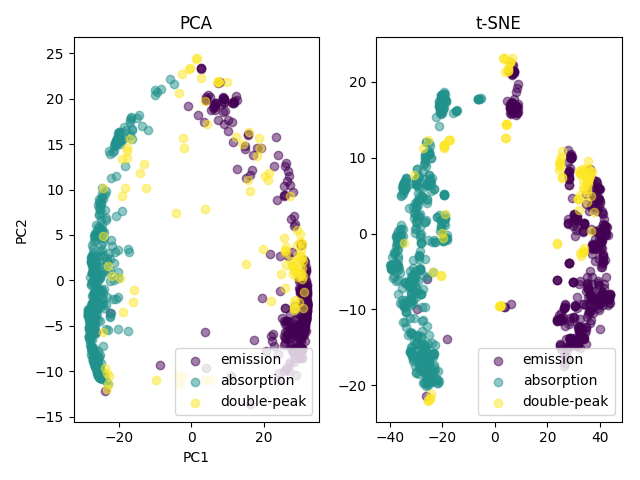
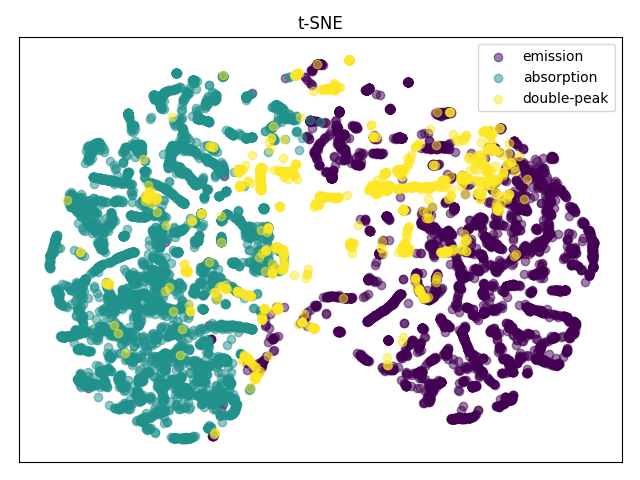
Write about t-SNE

diff --git a/tex/dimensionality.tex b/tex/dimensionality.tex
@@ -1,14 +1,15 @@
 \chap Dimensionality Reduction
 
-After the preprocessing methods mentioned in above sections each spectrum
-is a point in 140-dimensional space.
-To better understant the data \glref{PCA} and \glref{t-SNE} dimensionality
+After the preprocessing methods mentioned in chapter~\ref[preprocessing]
+each spectrum is a point in {\bf 140-dimensional space}.
+To better understand the data \glref{PCA} and \glref{t-SNE} dimensionality
 reduction algorithms are applied to reduce each point to 2-dimensional space
 which can be visualized as scatter plot.
 
 \sec PCA
 
-Principal Component Analysis is statistical technique to tranform a number
+{\bf Principal Component Analysis}
+is statistical technique to tranform a number
 of possibly correlated variables into a smaller number of variables
 called principal components. \cite[pca]
 
@@ -23,17 +24,15 @@ of the plot, emission spectra are on the other side and double-peak spectra
 are spread across the whole plot.
 \endinsert
 
-Left plot in figure~\ref[pca-plot] displays first and second principal
-component of original dataset.
-After further analysis the plot express more the intensities in spectra's
+Left plot in figure~\ref[pca-plot] displays the first and the second principal
+component of dataset which is not standardized.
+After further analysis the plot express more the intensities in spectra
 fluxes than the shape.
-The points far from the dense area in middle left have high intense fluxes.
-But in this work the difference between intesities in fluxes is not interesting.
+The points far from the dense area in middle left have high fluxes.
+But in this work the interesting is shape not the difference between in fluxes.
 
-The other plot in figure~\ref[pca-plot] shows dataset with supressed intensities
-so that the only feature should be the shape of each spectra
-(spectra are classified according to their shapes see chapter~\ref[ondrejov].
-
+The plot on right side in figure~\ref[pca-plot] shows dataset
+with supressed fluxes.
 The scatter plot then expresses the structure of the dataset clearly.
 Absroption spectra are on the left side
 while emission spectra are mostly on the other side.
@@ -41,20 +40,40 @@ Double-peak spectra are spread across the whole plot.
 This may implies that the emission and absorption spectra can be separable
 by linear classifier.
 But the double-peak spectra are mixed up with the other classes so
-hopefully a deep neural network can find such representation that all
+hopefully a deep neural network can find a representation in which all
 classes are separable.
 
 \sec t-SNE
 
-T-Distributed Stochastic Neighbor Embedding visualizes high-dimensional data
+{\bf T-Distributed Stochastic Neighbor Embedding}
+visualizes high-dimensional data
 by giving each point a location in a two or three dimensional map.
 It is variant of Stochastic Neighbor Embedding.
-Unlike PCA, which is linear technique that focus on keeping the low-dimensional
-representations of dissimilar points far apart,
+Unlike \glref{PCA}
+(which is linear technique that focus on keeping the low-dimensional
+representations of dissimilar points far apart)
 t-SNE is capable of capturing both global and local structure.
 \cite[tsne]
 
+Visualization of Ondřejov dataset with \glref{t-SNE}
+is in figure~\ref[tsne-plot].
+Same as experiments in \cite[tsne],
+dataset is firstly reduced to 30 dimensions with \glref{PCA}
+and then reduce to two dimensions using
+Scikit-learn impelentation of \glref{t-SNE}.
+Perplexity, which is t-SNE parameter, is set to value 40.
+
 \midinsert \clabel[tsne-plot]{t-SNE dataset visualization}
 \picw=15cm \cinspic img/tsne.png
-\caption/f TODO
+\caption/f Visualization of Ondřejov dataset with \glref{t-SNE}.
+The input data are standardized (see section~\ref[scaling])
+and reduced to 30 dimensions
+with \glref{PCA}.
 \endinsert
+
+Figure~\ref[tsne-plot] of t-SNE visualization is very similar to
+PCA scatter plot~\ref[pca-plot].
+Absorption spectra are on the left side and emission spectra are
+on right side.
+Double-peak spectra are more oriented in the middle
+but they do not form their own cluster.

diff --git a/tex/preprocessing.tex b/tex/preprocessing.tex
@@ -1,7 +1,13 @@
+\label[preprocessing]
 \chap Preprocessing
 
 This chapter describes all preprocessing methods applied on
-Ondřejov dataset before processing them through a neural network.
+Ondřejov dataset before processing it through a neural network.
+First section introduce methods to make spectra from Ondřejov
+simalar to spectra from \glref{LAMOST}.
+Second section section transorm spectra into form of two dimensional
+matrix.
+Third section explains why is fluxes scaling important.
 
 \sec Knowledge Transfer
 
@@ -78,7 +84,7 @@ where $\sigma$ is standard deviation in pixels.
 Kernel generated by this function is convolved with a spectrum
 resulting in Gaussian blur.
 
-This work uses convolution implementation from Python package astropy
+This work uses convolution implementation from Python package {\bf astropy}
 \cite[astropy] in version 1.3.1.
 Standard deviation of value 7 was chosen after visualizing results of
 convolutions (see figure~\ref[gaussian-blur-plot]).
@@ -123,7 +129,7 @@ Because Ondřejov spectra are moved to \glref{LAMOST} resolution,
 after air to vacuum conversion and convolution,
 spectra are regrided uniformly to 140 points in range 6519 to 6732.
 To do regridding linear interpolation is used.
-Here is NumPy 1.12.1 \cite[numpy] code carrying out this operation:
+Here is {\bf NumPy} 1.12.1 \cite[numpy] code carrying out this operation:
 
 \begtt
 import numpy as np
@@ -135,6 +141,7 @@ new_fluxes = np.interp(new_wavelengths, old_wavelengths, old_fluxes)
 where {\tt old\_wavelengths} variable holds old wavelengths
 and {\tt old\_fluxes} variable holds corresponding fluxes of a spectrum.
 
+\label[scaling]
 \sec Spectra Scaling
 
 Spectra in Ondřejov dataset were classified according to their shape.
@@ -159,7 +166,8 @@ standardization to zero mean and unit variance.
 
 The two methods seems to work similar.
 In this work scaling to zero mean and unit variance is used.
-Scaling of spectra fluxes is done with Scikit-learn 0.18.1 \cite[sklearn]:
+Scaling of spectra fluxes is done with
+{\bf Scikit-learn} 0.18.1 \cite[sklearn]:
 
 \begtt
 import sklearn.preprocessing
